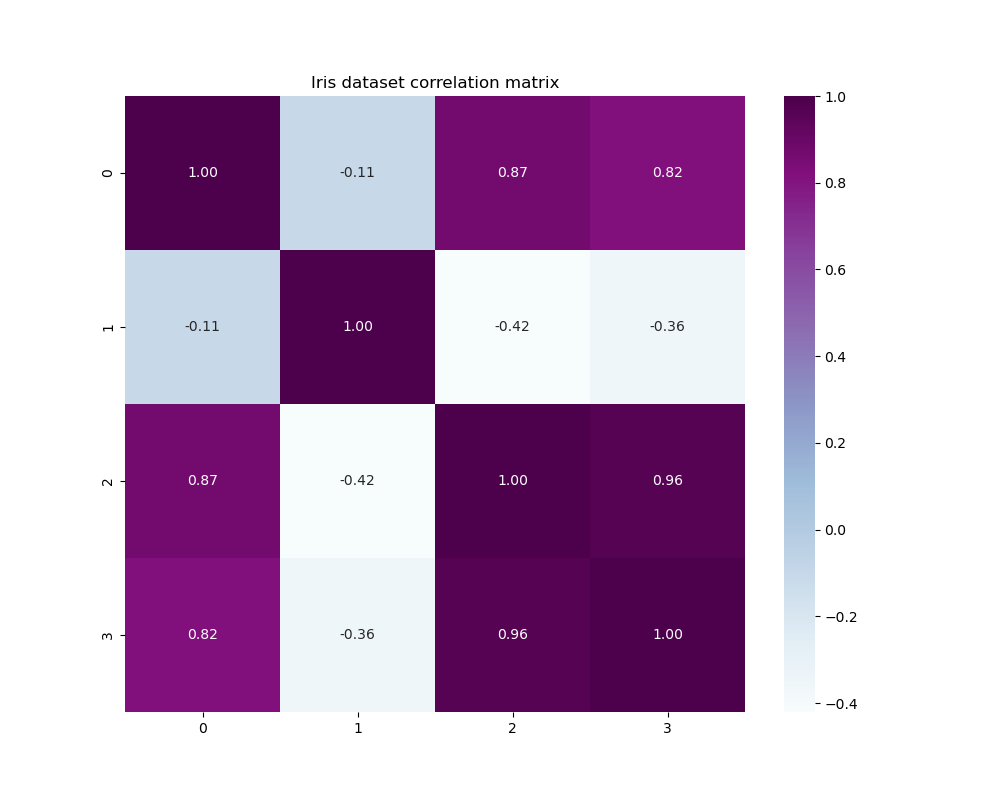
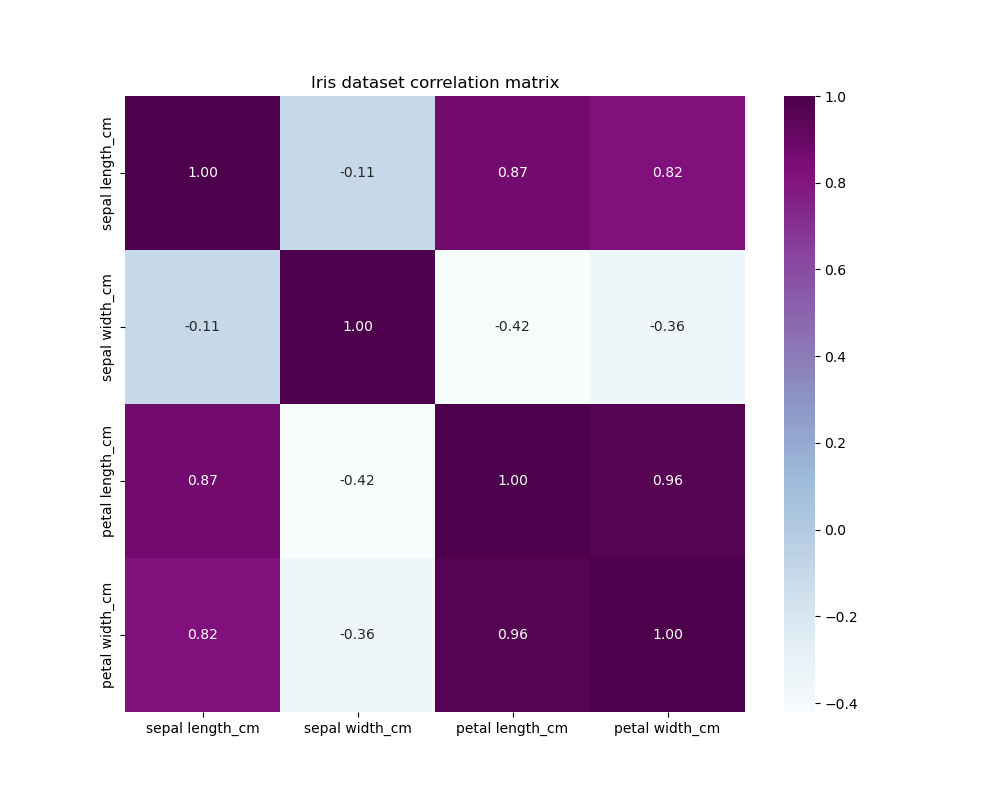
function correlation_matrix(): has changed

diff --git a/analysis.py b/analysis.py
@@ -107,6 +107,12 @@ def correlation_matrix():
    plt.figure(figsize=(10, 8))
    sns.heatmap(corr_mat, annot=True, cmap="BuPu", fmt=".2f")
    plt.title("Iris dataset correlation matrix")
+   # Get column names
+   column_names = columns.columns
+   # Set x-axis ticks and labels to column names
+   plt.xticks(ticks=np.arange(len(column_names))+0.5, labels=column_names)
+   # Set y-axis ticks and labels to column names
+   plt.yticks(ticks=np.arange(len(column_names))+0.5, labels=column_names)
    plt.savefig("Correlation_matrix.png")
    plt.close()
 
